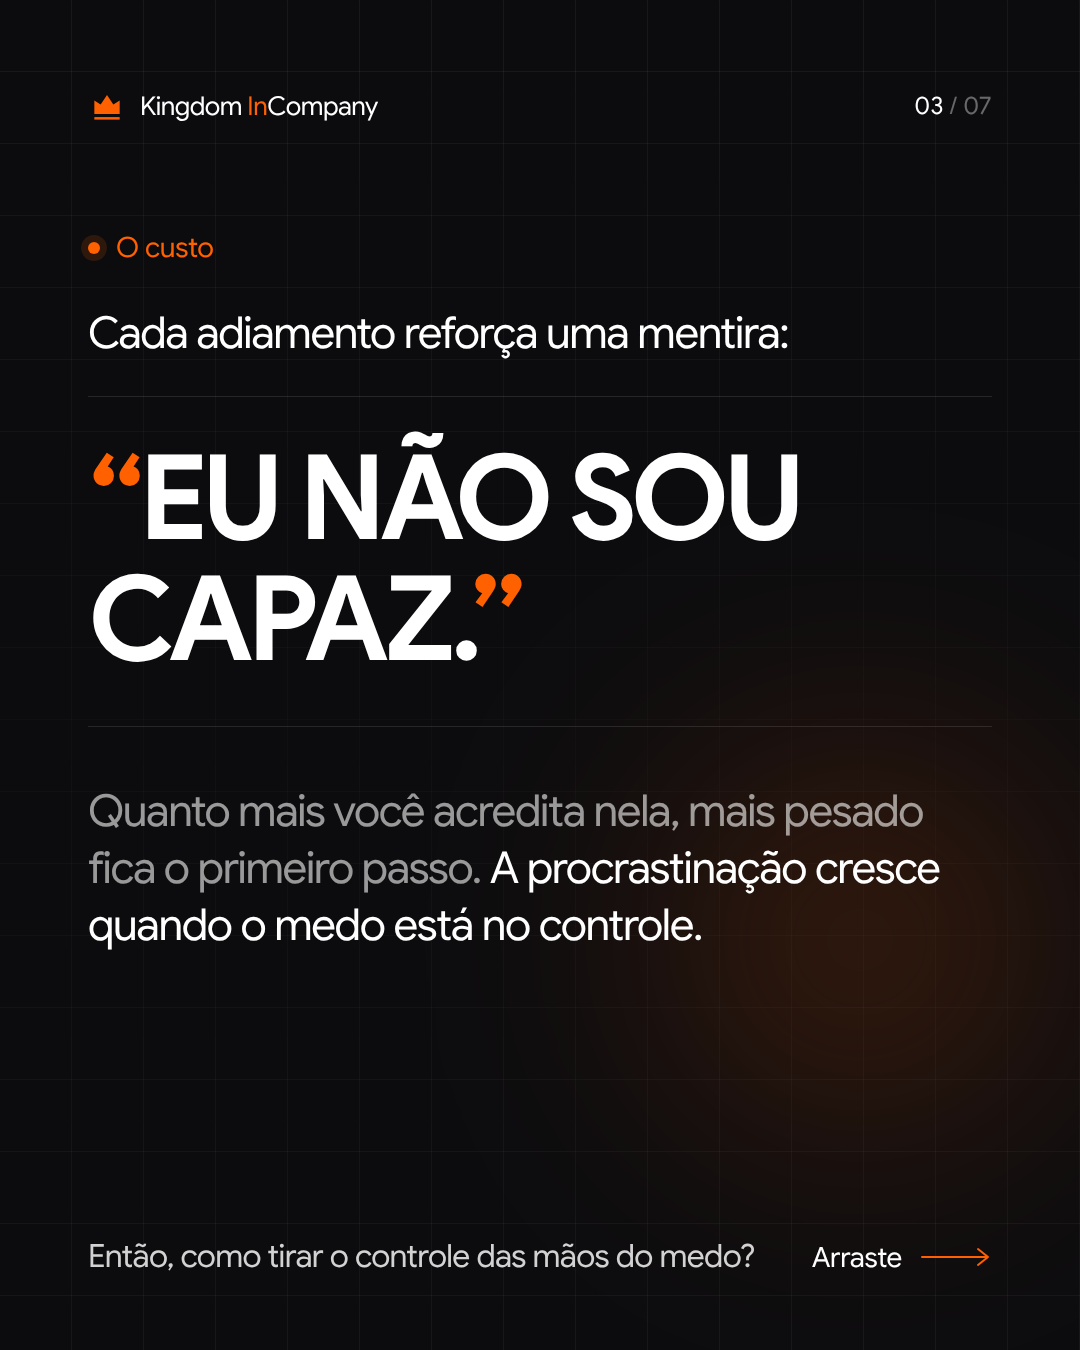
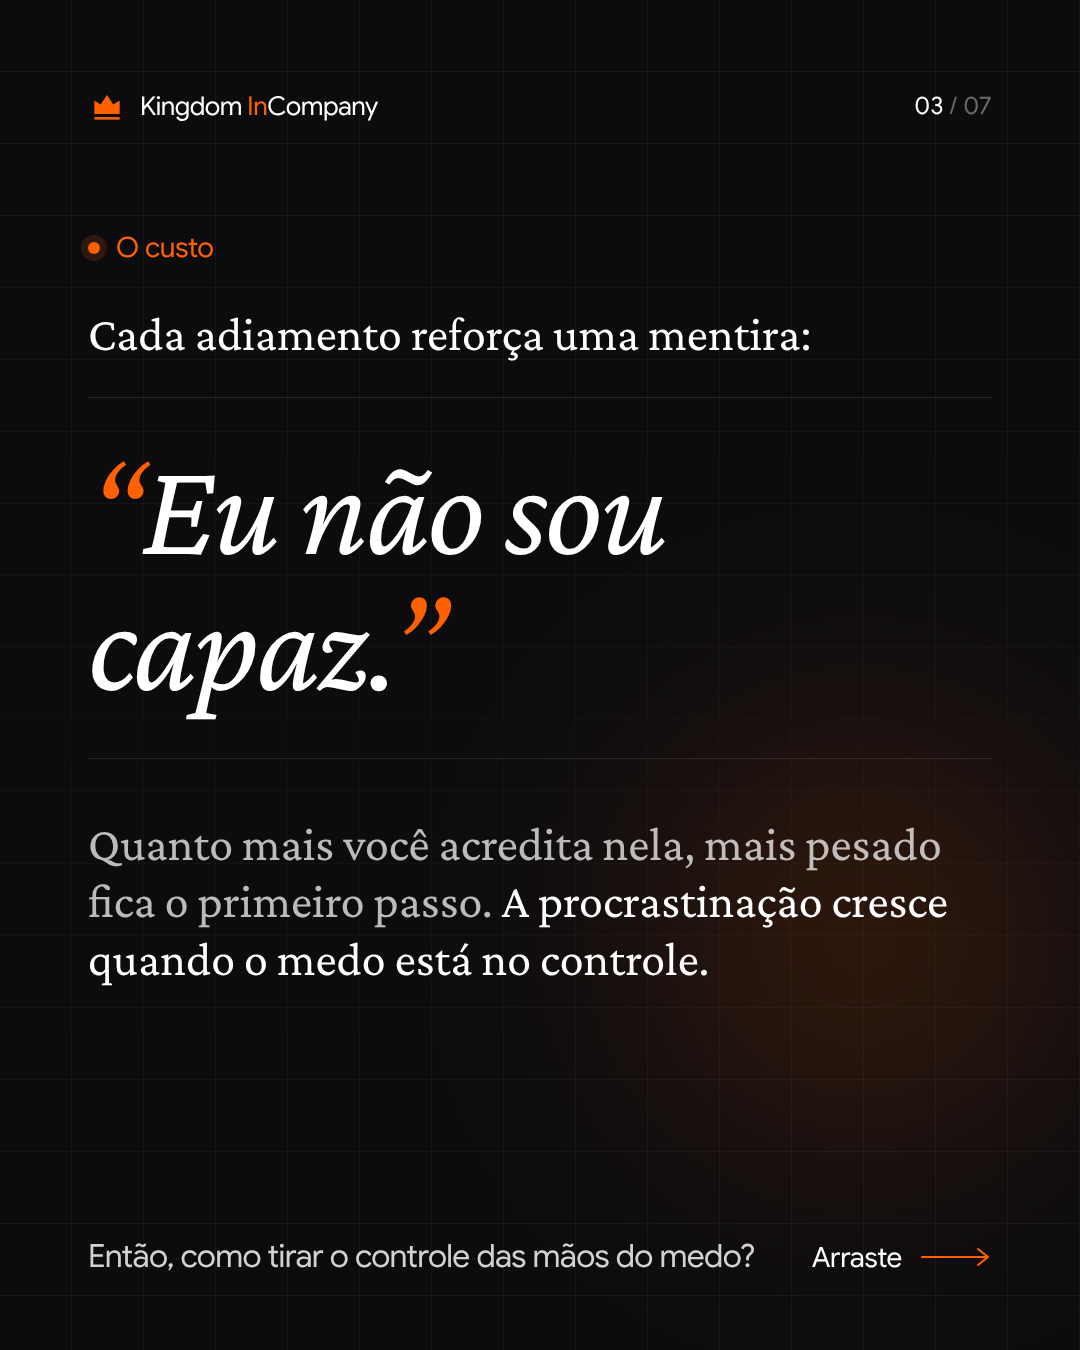
Carrossel 1: títulos em Barlow Condensed e subtítulos em Crimson Pro
Segue a referência editorial: títulos em caixa alta condensada, subtítulos
em serifa. A caixa alta fica só nos títulos; os medos do slide 2 e a frase
do slide 3 passam para serifa em minúsculas.

Claude-Session: https://claude.ai/code/session_01RgmbLLVHoJT5B4GNygU6zs

Changed region(s): [[0.0611, 0.5911, 0.8861, 0.7467], [0.0611, 0.3111, 0.7639, 0.56], [0.0917, 0.2178, 0.7333, 0.28]]

diff --git a/content/carrosseis/01-medo-procrastinar/carrossel.html b/content/carrosseis/01-medo-procrastinar/carrossel.html
@@ -14,12 +14,26 @@
   font-family:'Google Sans'; font-style:normal; font-weight:400 700; font-display:block;
   src:url(fonts/google-sans-latin.woff2) format('woff2');
 }
+@font-face{
+  font-family:'Barlow Condensed'; font-style:normal; font-weight:700; font-display:block;
+  src:url(fonts/barlow-condensed-700-latin.woff2) format('woff2');
+}
+@font-face{
+  font-family:'Crimson Pro'; font-style:normal; font-weight:400; font-display:block;
+  src:url(fonts/crimson-pro-latin.woff2) format('woff2');
+}
+@font-face{
+  font-family:'Crimson Pro'; font-style:italic; font-weight:400; font-display:block;
+  src:url(fonts/crimson-pro-italic-latin.woff2) format('woff2');
+}
 :root{
   --bg:#0C0C0F; --bg-raise:#131317; --bg-raise-2:#1A1A20; --black:#010104;
   --accent:#FF6000; --accent-dim:rgba(255,96,0,.14); --accent-light:#FF9142;
   --white:#FFFFFF; --grey:#D2D2D2; --muted:rgba(255,255,255,.58); --muted-2:rgba(255,255,255,.38);
   --line:rgba(255,255,255,.11); --line-soft:rgba(255,255,255,.06);
   --font:'Google Sans', Arial, sans-serif;
+  --display:'Barlow Condensed', 'Arial Narrow', sans-serif;  /* titulos: caixa alta, condensado */
+  --serif:'Crimson Pro', Georgia, serif;                        /* subtitulos */
   --pad:88px;
 }
 *{ box-sizing:border-box; margin:0; padding:0; }
@@ -51,12 +65,13 @@ body{ width:7560px; height:1350px; overflow:hidden; font-family:var(--font); col
 .eyebrow::before{ content:""; width:12px; height:12px; border-radius:50%; background:var(--accent);
   box-shadow:0 0 0 7px var(--accent-dim); }
 
-h1,h2{ font-weight:700; letter-spacing:-0.05em; text-transform:uppercase; color:var(--white); }
-h1{ font-size:104px; line-height:1.03; }
-h2{ font-size:68px; line-height:1.05; }
+h1,h2{ font-family:var(--display); font-weight:700; letter-spacing:-0.01em; text-transform:uppercase; color:var(--white); }
+h1{ font-size:124px; line-height:.98; }
+h2{ font-size:92px; line-height:.98; }
 .acc{ color:var(--accent); }
-.lead{ font-size:44px; line-height:1.3; letter-spacing:-0.03em; color:var(--muted); font-weight:400; }
+.lead{ font-family:var(--serif); font-size:48px; line-height:1.2; letter-spacing:0; color:rgba(255,255,255,.72); font-weight:400; }
 .lead strong{ color:var(--white); font-weight:400; }
+.lead .acc{ font-style:italic; color:var(--accent); white-space:nowrap; }
 .small{ font-size:38px; line-height:1.35; letter-spacing:-0.02em; color:var(--muted); }
 .small strong{ color:var(--white); font-weight:400; }
 
@@ -74,12 +89,12 @@ h2{ font-size:68px; line-height:1.05; }
 .go svg{ width:72px; height:24px; color:var(--accent); }
 
 /* slide 2: os quatro medos */
-.fears{ display:flex; flex-direction:column; gap:22px; margin-bottom:56px; }
-.fears li{ list-style:none; font-size:60px; line-height:1.06; letter-spacing:-0.05em; font-weight:700; text-transform:uppercase; }
+.fears{ display:flex; flex-direction:column; gap:18px; margin-bottom:56px; }
+.fears li{ list-style:none; font-family:var(--serif); font-size:70px; line-height:1.05; letter-spacing:-0.01em; font-weight:400; }
 .fears li span{ color:var(--muted-2); }
 
 /* slide 3: a mentira */
-.quote{ font-size:118px; line-height:1.02; letter-spacing:-0.055em; font-weight:700; text-transform:uppercase; margin:34px 0 56px;
+.quote{ font-family:var(--serif); font-style:italic; font-size:136px; line-height:1; letter-spacing:-0.02em; font-weight:400; margin:34px 0 56px;
   padding:42px 0 46px; border-top:1px solid var(--line); border-bottom:1px solid var(--line); }
 .quote .q{ color:var(--accent); }
 
@@ -87,7 +102,7 @@ h2{ font-size:68px; line-height:1.05; }
 .swap{ margin-top:56px; border:1px solid var(--line); border-radius:28px; background:rgba(19,19,23,.86);
   padding:40px 44px; display:flex; flex-direction:column; gap:22px; }
 .swap .row{ display:flex; align-items:flex-start; gap:24px; font-size:40px; line-height:1.25; letter-spacing:-0.03em; }
-.swap .tag{ flex:0 0 auto; margin-top:4px; font-size:22px; font-weight:400; letter-spacing:0.04em; text-transform:uppercase;
+.swap .tag{ flex:0 0 auto; margin-top:4px; font-size:24px; font-weight:400; letter-spacing:0;
   padding:8px 16px; border-radius:999px; border:1px solid var(--line); color:var(--muted-2); }
 .swap .row.new .tag{ border-color:var(--accent); color:var(--accent); background:var(--accent-dim); }
 .swap .old{ color:var(--muted); text-decoration:line-through; text-decoration-color:var(--accent); text-decoration-thickness:3px; }
@@ -140,7 +155,7 @@ h2{ font-size:68px; line-height:1.05; }
     linear-gradient(180deg, rgba(12,12,15,.6) 0%, rgba(12,12,15,0) 16%, rgba(12,12,15,.1) 42%, rgba(12,12,15,.8) 60%, #0C0C0F 74%),
     linear-gradient(90deg, transparent 88%, #0C0C0F 100%); }
 .slide.cover .body{ top:auto; bottom:190px; }
-.slide.cover h1{ font-size:84px; line-height:1.03; }
+.slide.cover h1{ font-size:118px; line-height:.98; }
 .handle{ font-size:28px; letter-spacing:-0.01em; color:var(--white); }
 </style>
 </head>
@@ -175,7 +190,7 @@ h2{ font-size:68px; line-height:1.05; }
     </div>
     <div class="body">
       <h1>Você não está procrastinando porque é <span class="strike">preguiçoso.</span></h1>
-      <p class="lead" style="margin-top:40px;max-width:840px">Na maioria das vezes, você está com <strong class="acc">medo de começar.</strong><br>E esse medo tem nome.</p>
+      <p class="lead" style="margin-top:40px">Na maioria das vezes, você está com <strong class="acc">medo de começar.</strong><br>E esse medo tem nome.</p>
     </div>
     <div class="foot">
       <div class="go"><span>Arraste</span><svg><use href="#i-long"/></svg></div>
@@ -251,7 +266,7 @@ h2{ font-size:68px; line-height:1.05; }
     </div>
     <div class="body">
       <div class="eyebrow">O método</div>
-      <h2 style="font-size:66px">A resposta precisa ser <span class="acc">pequena o suficiente</span> para não assustar.</h2>
+      <h2 style="font-size:88px">A resposta precisa ser <span class="acc">pequena o suficiente</span> para não assustar.</h2>
       <div class="pairs">
         <div class="pair"><span class="no">Não escreva o projeto inteiro.</span><span class="arr"><svg><use href="#i-arrow"/></svg></span><span class="yes">Escreva o primeiro parágrafo.</span></div>
         <div class="pair"><span class="no">Não estude três horas.</span><span class="arr"><svg><use href="#i-arrow"/></svg></span><span class="yes">Estude dez minutos.</span></div>
